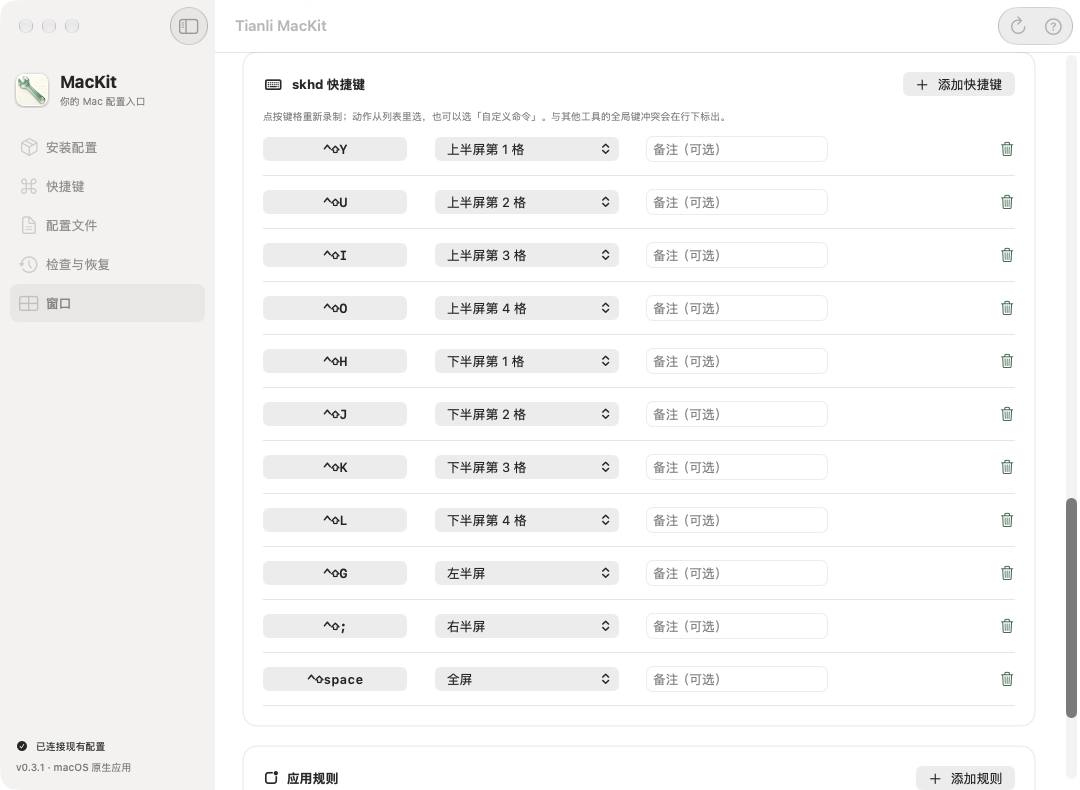
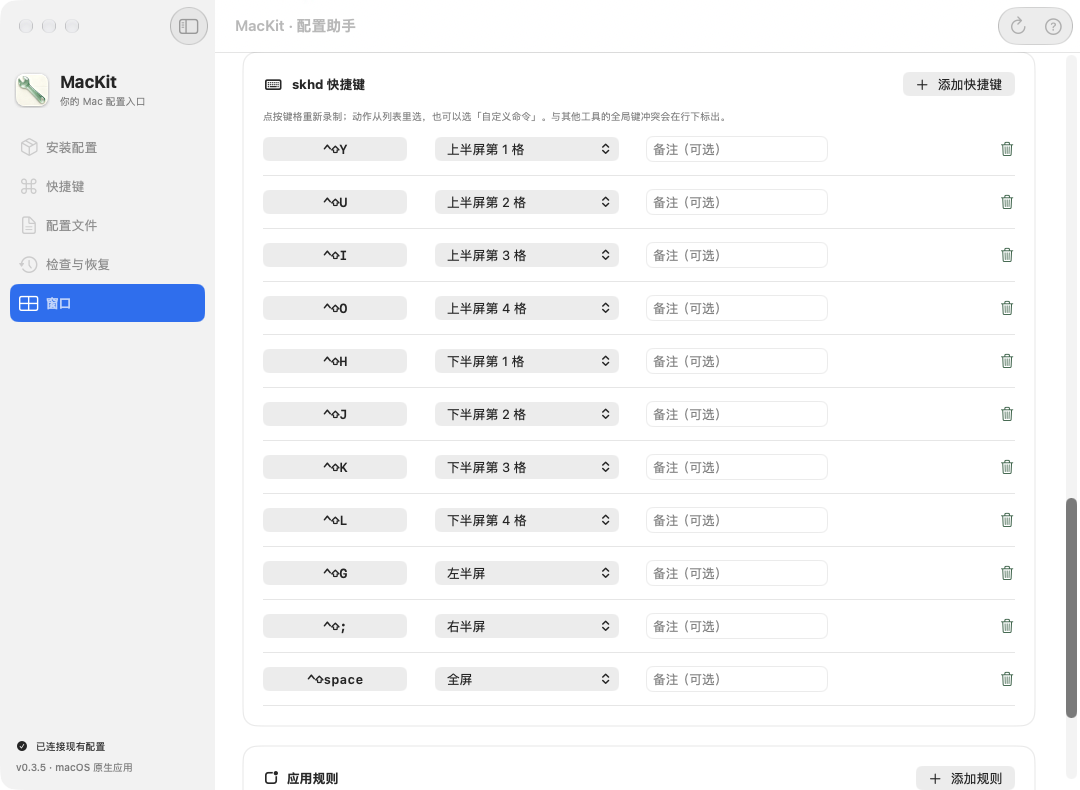
Media: re-capture the app screenshots offscreen for 0.3.5 (new window title)
scripts/capture-media.py builds a capture bundle from the production
macos/Sources plus scripts/capture/main.swift, opens each page with the
App's own -page/-section arguments in a window placed outside every
display (never key, never active, no input) and reads back the window
server's image of its own window: title bar, toolbar and sidebar selection
render as in the App, unlike an offscreen cacheDisplay. The engine is the
installed 0.3.5 release on the real HOME (read-only snapshot); it defers
(exit 75) when the installed App is not VERSION. Registered as sop.capture
so Chapter re-captures after future UI changes. The CLI replay video stays
the labelled 0.1.0 replay (reused_for 0.3.5 in the manifest).

Changed region(s): [[0.0, 0.3342, 0.2139, 0.4253], [0.2444, 0.0, 0.3361, 0.0608], [0.0611, 0.9418, 0.1222, 1.0]]

diff --git a/scripts/capture/main.swift b/scripts/capture/main.swift
@@ -1,0 +1,79 @@
+import AppKit
+import SwiftUI
+
+// Offscreen screenshot of the production MacKit window for the product page (scripts/capture-media.py).
+// Built from macos/Sources (minus the App's own @main in UISelfTest.swift) plus this file, so the pixels come
+// from the same ContentView/AppModel/WindowPage code as the release. The window is placed outside every display
+// and may not become key or main; the app never activates and posts no input events. The window server still
+// composites it (title bar, toolbar, sidebar material and selection, which an offscreen cacheDisplay cannot
+// draw), and this process reads back only its own window's image.
+
+/// A window AppKit is not allowed to move back onto a screen.
+final class OffscreenWindow: NSWindow {
+    override func constrainFrameRect(_ frameRect: NSRect, to screen: NSScreen?) -> NSRect { frameRect }
+    override var canBecomeKey: Bool { false }
+    override var canBecomeMain: Bool { false }
+}
+
+private typealias WindowImage = @convention(c) (CGRect, UInt32, UInt32, UInt32) -> Unmanaged<CGImage>?
+
+@main enum CaptureMain {
+    static func main() {
+        MainActor.assumeIsolated {
+            let app = NSApplication.shared
+            app.setActivationPolicy(.accessory)
+            Task { await run() }
+            app.run()
+        }
+    }
+
+    @MainActor static func run() async {
+        var result: [String: Any] = [:]
+        do {
+            let args = CommandLine.arguments
+            guard let i = args.firstIndex(of: "--out"), args.count > i + 1 else { throw EngineError.message("usage: --out <png>") }
+            let out = URL(fileURLWithPath: args[i + 1])
+            let title = Bundle.main.infoDictionary?["CFBundleDisplayName"] as? String ?? "MacKit"
+            // Same scene size as MacKitApp's Window(...).defaultSize(width:1080,height:790).
+            let frame = NSRect(x: -30000, y: -30000, width: 1080, height: 790)
+            let window = OffscreenWindow(contentRect: frame, styleMask: [.titled, .closable, .miniaturizable, .resizable, .fullSizeContentView],
+                                         backing: .buffered, defer: false)
+            window.isReleasedWhenClosed = false
+            window.title = title
+            window.toolbarStyle = .unified
+            window.appearance = NSAppearance(named: .aqua)
+            // AppModel reads `-page` from the argument domain (the App's own verification channel); real HOME, read-only snapshot.
+            let model = AppModel()
+            let host = NSHostingView(rootView: ContentView().environmentObject(model))
+            host.sceneBridgingOptions = .all
+            window.contentView = host
+            window.setFrame(frame, display: false)
+            window.orderFrontRegardless()
+            var ready = false
+            for _ in 0..<1200 {
+                try await Task.sleep(for: .milliseconds(100))
+                if !model.error.isEmpty { throw EngineError.message(model.error) }
+                if model.snapshot != nil && !model.busy && (model.page != .window || model.window != nil) { ready = true; break }
+            }
+            guard ready else { throw EngineError.message("The app state did not load within 120 s") }
+            try await Task.sleep(for: .milliseconds(1500))  // let `-section` scroll and the list settle
+            let onScreen = NSScreen.screens.contains { $0.frame.intersects(window.frame) }
+            guard !onScreen, !window.isKeyWindow, !NSApp.isActive else { throw EngineError.message("Capture window was visible or active") }
+            guard let core = dlopen("/System/Library/Frameworks/CoreGraphics.framework/CoreGraphics", RTLD_NOW),
+                  let symbol = dlsym(core, "CGWindowListCreateImage") else { throw EngineError.message("CGWindowListCreateImage is unavailable") }
+            let image = unsafeBitCast(symbol, to: WindowImage.self)
+            // kCGWindowListOptionIncludingWindow; kCGWindowImageBoundsIgnoreFraming | kCGWindowImageBestResolution
+            guard let shot = image(.null, 1 << 3, UInt32(window.windowNumber), (1 << 0) | (1 << 3))?.takeRetainedValue(),
+                  let png = NSBitmapImageRep(cgImage: shot).representation(using: .png, properties: [:]) else {
+                throw EngineError.message("The window image could not be read")
+            }
+            try png.write(to: out)
+            result = ["ok": true, "file": out.path, "width": shot.width, "height": shot.height, "page": "\(model.page)",
+                      "title": title, "window_frame": NSStringFromRect(window.frame), "on_screen": onScreen,
+                      "key": window.isKeyWindow, "active": NSApp.isActive, "app_version": model.snapshot?.appVersion ?? ""]
+            window.orderOut(nil)
+        } catch { result = ["ok": false, "error": error.localizedDescription] }
+        if let data = try? JSONSerialization.data(withJSONObject: result, options: [.sortedKeys]) { print(String(decoding: data, as: UTF8.self)) }
+        exit(result["ok"] as? Bool == true ? 0 : 1)
+    }
+}

diff --git a/scripts/capture-media.py b/scripts/capture-media.py
@@ -1,0 +1,122 @@
+"""Re-capture the product page's app screenshots offscreen from the installed release (Chapter sop.capture).
+
+    python3 scripts/capture-media.py
+
+Builds build/media-capture/MacKit Media Capture.app from macos/Sources plus scripts/capture/main.swift (the
+production views; the App's own @main in UISelfTest.swift is left out) with a private bundle id and LSUIElement,
+whose engine is a one-line wrapper around the installed /Applications/MacKit.app engine. Each screenshot is a
+separate process started with the App's own `-page` / `-section` verification arguments on the real HOME
+(read-only snapshot and window status). The window sits outside every display, never becomes key or active,
+and receives no input; the window server composites it and the process reads back its own window only.
+
+Writes site/media/app.png, window.png, window-hotkeys.png, perf/media-capture.json and the app_screenshots
+record in site/media/manifest.json. The CLI replay video and terminal.png are not touched.
+Exit 75 (defer) when the installed App is not the current VERSION: screenshots must show the released build.
+"""
+import datetime
+import hashlib
+import json
+import os
+from pathlib import Path
+import platform
+import plistlib
+import shlex
+import shutil
+import subprocess
+import sys
+import tempfile
+
+ROOT = Path(__file__).resolve().parents[1]
+INSTALLED = Path(os.environ.get("MACKIT_CAPTURE_APP", "/Applications/MacKit.app"))
+DEFER = 75
+SHOTS = [("app.png", ["-page", "keys"]),
+         ("window.png", ["-page", "window"]),
+         ("window-hotkeys.png", ["-page", "window", "-section", "hotkeys"])]
+METHOD = ("Production SwiftUI views (macos/Sources) in a window outside every display that never becomes key or "
+          "active; window-server image of the capture process's own window. Installed release engine on the real "
+          "HOME (read-only snapshot). No input events, activation or screen recording.")
+
+
+def sha256(path):
+    return hashlib.sha256(Path(path).read_bytes()).hexdigest()
+
+
+def build(version):
+    app = ROOT / "build/media-capture/MacKit Media Capture.app"
+    if app.exists():
+        shutil.rmtree(app)
+    contents = app / "Contents"
+    (contents / "MacOS").mkdir(parents=True)
+    engine = contents / "Resources/core/bin/mackit"
+    engine.parent.mkdir(parents=True)
+    engine.write_text("#!/bin/sh\nexec " + shlex.quote(str(INSTALLED / "Contents/Resources/core/bin/mackit")) + ' "$@"\n')
+    engine.chmod(0o755)
+    info = plistlib.loads((ROOT / "macos/Info.plist").read_bytes())
+    info.update(CFBundleIdentifier="cyou.tianli.mackit.media-capture", LSUIElement=True,
+                CFBundleShortVersionString=version, CFBundleExecutable="MacKit")
+    (contents / "Info.plist").write_bytes(plistlib.dumps(info))
+    shutil.copy2(ROOT / "icon/AppIcon.icns", contents / "Resources/AppIcon.icns")
+    sources = sorted(p for p in (ROOT / "macos/Sources").glob("*.swift") if p.name != "UISelfTest.swift")
+    sdk = subprocess.check_output(["xcrun", "--sdk", "macosx", "--show-sdk-path"], text=True).strip()
+    subprocess.run(["xcrun", "swiftc", "-swift-version", "5", "-O", "-parse-as-library",
+                    "-target", platform.machine() + "-apple-macos14.0", "-sdk", sdk,
+                    *map(str, sources), str(ROOT / "scripts/capture/main.swift"),
+                    "-o", str(contents / "MacOS/MacKit")], cwd=ROOT, check=True, timeout=600)
+    subprocess.run(["codesign", "--force", "--sign", "-", str(app)], check=True, capture_output=True)
+    return app, sources
+
+
+def main():
+    version = (ROOT / "VERSION").read_text().strip()
+    try:
+        installed = plistlib.loads((INSTALLED / "Contents/Info.plist").read_bytes())
+    except OSError:
+        print(f"{INSTALLED} is not installed; capture after installing {version}.")
+        return DEFER
+    if installed.get("CFBundleShortVersionString") != version:
+        print(f"Installed {installed.get('CFBundleShortVersionString')} is not VERSION {version}; capture after installing it.")
+        return DEFER
+    app, sources = build(version)
+    executable = app / "Contents/MacOS/MacKit"
+    media = ROOT / "site/media"
+    records = []
+    with tempfile.TemporaryDirectory(prefix="mackit-capture-") as tmp:
+        staged = []
+        for name, args in SHOTS:
+            out = Path(tmp) / name
+            result = subprocess.run([str(executable), *args, "--out", str(out)], cwd=ROOT,
+                                    capture_output=True, text=True, timeout=180)
+            lines = [l for l in result.stdout.splitlines() if l.startswith("{")]
+            data = json.loads(lines[-1]) if lines else {"ok": False, "error": (result.stdout + result.stderr)[-800:]}
+            if result.returncode or not data.get("ok"):
+                raise SystemExit(f"{name}: {data.get('error')}")
+            if (data["width"], data["height"]) != (1080, 790) or out.stat().st_size < 50_000:
+                raise SystemExit(f"{name}: unexpected image {data['width']}x{data['height']} {out.stat().st_size} B")
+            if data["on_screen"] or data["key"] or data["active"] or data["app_version"] != version:
+                raise SystemExit(f"{name}: capture conditions not met: {data}")
+            staged.append((name, out))
+            records.append({"file": "site/media/" + name, "arguments": args, "page": data["page"], "title": data["title"],
+                            "window_frame": data["window_frame"], "width": data["width"], "height": data["height"],
+                            "app_version": data["app_version"], "captured_at": datetime.datetime.now().astimezone().isoformat(timespec="seconds")})
+        for (name, out), record in zip(staged, records):
+            shutil.copyfile(out, media / name)
+            record["sha256"] = sha256(media / name)
+    evidence = {"version": version, "installed_app": str(INSTALLED),
+                "installed_executable_sha256": sha256(INSTALLED / "Contents/MacOS/MacKit"),
+                "ui_sources_sha256": {str(p.relative_to(ROOT)): sha256(p) for p in sources},
+                "method": METHOD, "records": records}
+    (ROOT / "perf/media-capture.json").write_text(json.dumps(evidence, ensure_ascii=False, indent=2) + "\n")
+    manifest_path = media / "manifest.json"
+    manifest = json.loads(manifest_path.read_text())
+    manifest["app_screenshots"] = {
+        "version": version, "executable_sha256": evidence["installed_executable_sha256"],
+        "evidence": "../../perf/media-capture.json", "captured_at": records[-1]["captured_at"],
+        "scope": "App screenshots (app.png, window.png, window-hotkeys.png) re-captured offscreen from the production "
+                 "views with the installed release engine; the CLI replay video and terminal.png keep their own labelled version."}
+    manifest_path.write_text(json.dumps(manifest, ensure_ascii=False, indent=2) + "\n")
+    print(json.dumps({"ok": True, "version": version, "files": [r["file"] for r in records]}, ensure_ascii=False))
+    return 0
+
+
+if __name__ == "__main__":
+    sys.exit(main())

diff --git a/docs/build-app.md b/docs/build-app.md
@@ -22,6 +22,8 @@ bash scripts/build-app.sh           # 发行构建
 
 固定产品验收见 [acceptance.md](acceptance.md)。`--ui-self-test` 在进程内离屏运行真实界面，不启动常规窗口。
 
+产品页截图：装好当前版本后运行 `python3 scripts/capture-media.py`。它用 `macos/Sources` 的生产界面加 `scripts/capture/main.swift` 编出独立采集包（另一个 bundle ID），以 App 自带的 `-page` / `-section` 参数逐页打开，窗口放在所有屏幕之外、不成为键盘窗口、不激活 App；读回窗口服务器合成的本进程窗口图像，写入 `site/media/app.png`、`window.png`、`window-hotkeys.png` 与 `perf/media-capture.json`。引擎是已装 App 的命令（真实 HOME，只读快照）；装机版本与 `VERSION` 不同时退出 75，不录旧版。
+
 维护者打包前须由实际构建生成 `perf/build-receipt.json`（Chapter 的 `app_sop.py build-receipt` 入口）；回执记录干净提交、源码摘要、App 版本和可执行摘要。`scripts/release-checksums.py` 校验回执与待打包 App，一致后同时生成 `dist/releases/release.json` 与入库的 `perf/release.json`。回执过期或缺失时停止，不能用打包时的 HEAD 冒充构建来源，也不能把新代码的回执绑定到旧发行包。
 
 正式图标唯一源位于 `icon/`：Seedream 原图、提示词、打包后的 `AppIcon.png` / `AppIcon.icns` 与 `provenance.json`。构建与官网读取同一份打包图标；不要使用代码符号图覆盖正式素材。
